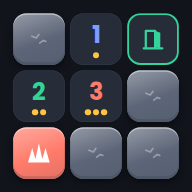
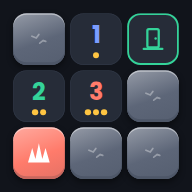
The Dig: разные силуэты входа/выхода, удержание подсвечивает соседей
Вход — кольцо со стрелкой вниз (лаз), выход — прямоугольная дверь на линии
пола с ручкой: раньше оба читались как один и тот же дверной силуэт.

Долгое нажатие (350 мс) на открытую плиту с числом подсвечивает её закрытых
соседей и показывает «N ловушек среди этих плит» — тот же круг подозреваемых,
что называет число, просто не нужно считать в уме. Не вероятность и не
солвер: подсвечивается весь круг соседей, а не то, какие из них ловушки —
'Ограничение игры' из §4 не нарушено. Записано в спеку как решение автора,
с новой строкой действия в §4 и веткой в §7.

npm run check зелёный: 30 юнит-тестов, 8 e2e (два новых — на удержание и на
то, что короткий тап ничего не подсвечивает).

Claude-Session: https://claude.ai/code/session_01KWr27tZBqT1rqwvqWW7Bph

Changed region(s): [[0.75, 0.125, 0.8438, 0.2812]]

diff --git a/apps/excavation/src/ui/game.ts b/apps/excavation/src/ui/game.ts
@@ -25,6 +25,7 @@ const T = {
   reveal: 300, // волна раскрытия комнаты
   popup: 900, // от «Забрать» или ловушки до попапа
   clueTip: 1500, // обучающая подсветка соседей
+  hold: 350, // удержание открытой плиты с числом до подсветки соседей
 } as const;
 
 // Геометрия поля (§7.1): плита 36–60 px, зазор 5 px.
@@ -303,6 +304,44 @@ export function gameScreen(levelNumber: number, go: Go): Screen {
     return out;
   }
 
+  // ---------- удержание открытой плиты: подсветка соседей (§4, §7, решение автора 2026-09-27) ----------
+  // Подсвечивает только закрытые соседние плиты — тот же круг, что число уже
+  // называет («N ловушек среди этих плит»). Не то, где ловушка точно, и не
+  // вероятность: геометрия, которую игрок и так видит по клетке рядом.
+  let holdTimer: ReturnType<typeof setTimeout> | null = null;
+  let holdIndex = -1;
+
+  function clearHold(): void {
+    if (holdTimer !== null) {
+      clearTimeout(holdTimer);
+      holdTimer = null;
+    }
+    if (holdIndex >= 0) {
+      neighboursOf(holdIndex)
+        .filter((j) => !state.open[j])
+        .forEach((j) => cellEl(j).classList.remove('tip-ring'));
+      cellEl(holdIndex).classList.remove('peek-source');
+      tipEl.hidden = true;
+      holdIndex = -1;
+    }
+  }
+
+  function startHold(i: number): void {
+    clearHold();
+    holdTimer = setTimeout(() => {
+      holdTimer = null;
+      holdIndex = i;
+      const n = state.clue[i] ?? 0;
+      const closed = neighboursOf(i).filter((j) => !state.open[j]);
+      closed.forEach((j) => cellEl(j).classList.add('tip-ring'));
+      cellEl(i).classList.add('peek-source');
+      tipEl.innerHTML = `<b>${String(n)} ${plural(n, 'ловушка', 'ловушки', 'ловушек')}</b> среди этих плит`;
+      tipEl.hidden = false;
+      vibrate(10);
+      log({ type: 'peek', level: levelNumber, row: Math.floor(i / level.cols), col: i % level.cols });
+    }, T.hold);
+  }
+
   // ---------- тап по плите (§4) ----------
   function tapCell(row: number, col: number): void {
     if (locked()) return;
@@ -466,9 +505,21 @@ export function gameScreen(levelNumber: number, go: Go): Screen {
 
   boardEl.addEventListener('pointerdown', (event) => {
     const box = (event.target as HTMLElement).closest<HTMLElement>('.cell');
+    clearHold();
     if (box === null) return;
-    tapCell(Number(box.dataset['row']), Number(box.dataset['col']));
+    const row = Number(box.dataset['row']);
+    const col = Number(box.dataset['col']);
+    const i = row * level.cols + col;
+    // Держат открытую плиту с числом — подсвечиваем соседей вместо тапа (тап по
+    // открытой плите и так ничего не делает, §4).
+    if (!locked() && state.open[i] === true && (state.clue[i] ?? 0) > 0) {
+      startHold(i);
+      return;
+    }
+    tapCell(row, col);
   });
+  document.addEventListener('pointerup', clearHold);
+  document.addEventListener('pointercancel', clearHold);
   takeBtn.addEventListener('click', onTake);
   q('[data-testid="to-levels"]').addEventListener('click', toLevels);
   q('[data-testid="restart"]').addEventListener('click', () => {
@@ -492,6 +543,8 @@ export function gameScreen(levelNumber: number, go: Go): Screen {
     el,
     destroy: () => {
       observer.disconnect();
+      document.removeEventListener('pointerup', clearHold);
+      document.removeEventListener('pointercancel', clearHold);
       if (state.status === 'playing' && taps > 0) log({ type: 'abandon', level: levelNumber, attempt, gold: state.gold });
     },
   };

diff --git a/apps/excavation/src/styles.css b/apps/excavation/src/styles.css
@@ -109,7 +109,7 @@ svg { display: block; }
 .h-cell b { font-size: calc(var(--cell) * .42); font-weight: 700; margin-top: -18%; }
 .h-cell > svg { width: 50%; height: 50%; color: var(--ui-green); }
 .h-cell.exit { box-shadow: inset 0 0 0 2px var(--ui-green); }
-.h-cell.exit > svg { width: 46%; height: 46%; margin-top: -12%; }
+.h-cell.exit > svg { width: 42%; height: 42%; }
 .h-cell .corner { position: absolute; top: 3px; left: 7px; font-size: calc(var(--cell) * .25); margin: 0; }
 .h-cell .pips { bottom: calc(var(--cell) * .13); }
 
@@ -225,15 +225,17 @@ svg { display: block; }
 .cell { position: relative; width: var(--cell); height: var(--cell); border-radius: 26%; background: var(--ui-surface-muted); box-shadow: inset 0 0 0 1px var(--ui-border); display: grid; place-items: center; }
 .cell.closed { background: none; box-shadow: none; cursor: pointer; }
 .cell .num { font-size: calc(var(--cell) * .44); font-weight: 700; line-height: 1; margin-top: -16%; }
-.cell.entrance svg, .cell.exit > svg, .cell.ghost-exit > svg { width: 48%; height: 48%; color: var(--ui-green); }
+.cell.entrance svg { width: 50%; height: 50%; color: var(--ui-green); }
+.cell.exit > svg, .cell.ghost-exit > svg { width: 40%; height: 40%; color: var(--ui-green); }
 .cell.exit { box-shadow: inset 0 0 0 2px var(--ui-green); }
-.cell.exit > svg, .cell.ghost-exit > svg { margin-top: -12%; }
 .cell.exit .corner { position: absolute; top: 3px; left: 6px; font-size: calc(var(--cell) * .25); font-weight: 700; line-height: 1.1; }
 .cell.ghost .num, .cell.ghost .pips, .cell.ghost-exit > svg { opacity: .38; }
 .cell.ghost-trap svg { width: 50%; height: 50%; color: var(--ui-coral); opacity: .8; }
 .cell.trap-hit { background: none; box-shadow: none; }
 /* Обучающая подсветка соседей (§7). */
 .cell.tip-ring .stone { outline: 2.5px solid var(--ui-coral); outline-offset: 1px; }
+/* Плита, которую держат (§4, §7): лёгкое кольцо вокруг числа, пока идёт подсветка. */
+.cell.peek-source { box-shadow: inset 0 0 0 2px var(--ui-coral); }
 .clue-tip { position: absolute; top: 4px; left: 50%; transform: translateX(-50%); z-index: 5; max-width: calc(100% - 16px); padding: 8px 14px; border-radius: var(--ui-radius-medium); background: var(--ui-surface); box-shadow: var(--ui-shadow-card), 0 0 0 1px var(--ui-border); font-size: 13px; line-height: 1.3; text-align: center; pointer-events: none; animation: fade-in 200ms ease both; }
 .clue-tip b { color: var(--ui-coral); }
 .clue-tip span { color: var(--ui-yellow); font-weight: 600; }

diff --git a/UI Design/prototypes/excavation/mockup.html b/UI Design/prototypes/excavation/mockup.html
@@ -71,7 +71,7 @@
   .pips i { width: 7px; height: 7px; border-radius: 50%; background: var(--ui-yellow); box-shadow: inset 0 -1px 0 rgba(0,0,0,.25); }
   /* Найденный выход: зелёная рамка, дверь, число в углу. */
   .exit { box-shadow: inset 0 0 0 2px var(--ui-green); }
-  .exit svg.door { width: 46%; height: 46%; color: var(--ui-green); margin-top: -6px; }
+  .exit svg.door { width: 40%; height: 40%; color: var(--ui-green); }
   .exit b.corner { position: absolute; top: 4px; left: 7px; font-size: 14px; margin: 0; }
   .entrance svg { width: 52%; height: 52%; color: var(--ui-green); }
 
@@ -88,8 +88,8 @@
     <symbol id="star" viewBox="0 0 24 24"><path d="M12 2.8l2.8 5.9 6.4.8-4.7 4.4 1.2 6.4L12 17.2l-5.7 3.1 1.2-6.4L2.8 9.5l6.4-.8z" fill="currentColor"/></symbol>
     <symbol id="spikes" viewBox="0 0 24 24"><path d="M3 20 6.5 8 10 20zM8.5 20 12 4l3.5 16zM14 20l3.5-12L21 20z" fill="currentColor"/></symbol>
     <symbol id="cracks" viewBox="0 0 24 24"><path d="M4 9l5 2 3-4M13 17l4-3 3 1" stroke="currentColor" stroke-width="2" fill="none" stroke-linecap="round"/></symbol>
-    <symbol id="exitdoor" viewBox="0 0 24 24"><path d="M5 21V4h9v17" fill="none" stroke="currentColor" stroke-width="2.2" stroke-linejoin="round"/><path d="M14 4l5 2v15l-5-1z" fill="currentColor"/><path d="M3 21h18" stroke="currentColor" stroke-width="2.2" stroke-linecap="round"/></symbol>
-    <symbol id="door" viewBox="0 0 24 24"><path d="M6 21V9a6 6 0 0 1 12 0v12z" fill="none" stroke="currentColor" stroke-width="2.4" stroke-linejoin="round"/><path d="M3 21h18" stroke="currentColor" stroke-width="2.4" stroke-linecap="round"/></symbol>
+    <symbol id="exitdoor" viewBox="0 0 24 24"><rect x="6.5" y="2.5" width="11" height="17.5" rx="1.4" fill="none" stroke="currentColor" stroke-width="2.2"/><circle cx="14.5" cy="11.5" r="1.2" fill="currentColor"/><path d="M3 21.5h18" stroke="currentColor" stroke-width="2.2" stroke-linecap="round"/></symbol>
+    <symbol id="door" viewBox="0 0 24 24"><circle cx="12" cy="12" r="9" fill="none" stroke="currentColor" stroke-width="2.3"/><path d="M8 10.5 12 14.5 16 10.5" fill="none" stroke="currentColor" stroke-width="2.4" stroke-linecap="round" stroke-linejoin="round"/></symbol>
   </defs>
 </svg>
 <div class="app">

diff --git a/apps/excavation/src/ui/icons.ts b/apps/excavation/src/ui/icons.ts
@@ -19,8 +19,11 @@ export const glyph = {
   star: '<svg viewBox="0 0 24 24" aria-hidden="true"><path d="M12 2.8l2.8 5.9 6.4.8-4.7 4.4 1.2 6.4L12 17.2l-5.7 3.1 1.2-6.4L2.8 9.5l6.4-.8z" fill="currentColor"/></svg>',
   spikes: '<svg viewBox="0 0 24 24" aria-hidden="true"><path d="M3 20 6.5 8 10 20zM8.5 20 12 4l3.5 16zM14 20l3.5-12L21 20z" fill="currentColor"/></svg>',
   cracks: '<svg viewBox="0 0 24 24" aria-hidden="true"><path d="M4 9l5 2 3-4M13 17l4-3 3 1" stroke="currentColor" stroke-width="2" fill="none" stroke-linecap="round"/></svg>',
-  arch: '<svg viewBox="0 0 24 24" aria-hidden="true"><path d="M6 21V9a6 6 0 0 1 12 0v12z" fill="none" stroke="currentColor" stroke-width="2.4" stroke-linejoin="round"/><path d="M3 21h18" stroke="currentColor" stroke-width="2.4" stroke-linecap="round"/></svg>',
-  exit: '<svg viewBox="0 0 24 24" aria-hidden="true"><path d="M5 21V4h9v17" fill="none" stroke="currentColor" stroke-width="2.2" stroke-linejoin="round"/><path d="M14 4l5 2v15l-5-1z" fill="currentColor"/><path d="M3 21h18" stroke="currentColor" stroke-width="2.2" stroke-linecap="round"/></svg>',
+  // Вход — круглый лаз, которым спустились в гробницу: кольцо и стрелка вниз.
+  arch: '<svg viewBox="0 0 24 24" aria-hidden="true"><circle cx="12" cy="12" r="9" fill="none" stroke="currentColor" stroke-width="2.3"/><path d="M8 10.5 12 14.5 16 10.5" fill="none" stroke="currentColor" stroke-width="2.4" stroke-linecap="round" stroke-linejoin="round"/></svg>',
+  // Выход — прямоугольная дверь на полу: рамка, ручка и линия пола под ней —
+  // силуэт нарочно не похож на круглый лаз входа.
+  exit: '<svg viewBox="0 0 24 24" aria-hidden="true"><rect x="6.5" y="2.5" width="11" height="17.5" rx="1.4" fill="none" stroke="currentColor" stroke-width="2.2"/><circle cx="14.5" cy="11.5" r="1.2" fill="currentColor"/><path d="M3 21.5h18" stroke="currentColor" stroke-width="2.2" stroke-linecap="round"/></svg>',
 };
 
 /** Ряд монеток под цифрой: столько же штук, сколько число (§7). */

diff --git a/UI Design/prototypes/excavation/tiles.html b/UI Design/prototypes/excavation/tiles.html
@@ -30,7 +30,7 @@
   .pips i { width: 7px; height: 7px; border-radius: 50%; background: var(--ui-yellow); box-shadow: inset 0 -1px 0 rgba(0,0,0,.25); }
   .ghost .pips { opacity: .38; }
   .exit { box-shadow: inset 0 0 0 2px var(--ui-green); }
-  .exit svg { width: 46%; height: 46%; color: var(--ui-green); margin-top: -6px; }
+  .exit svg { width: 40%; height: 40%; color: var(--ui-green); }
   .exit b.corner { position: absolute; top: 4px; left: 7px; font-size: 14px; margin: 0; }
 </style>
 </head>
@@ -38,8 +38,8 @@
 <svg width="0" height="0" style="position:absolute"><defs>
   <symbol id="spikes" viewBox="0 0 24 24"><path d="M3 20 6.5 8 10 20zM8.5 20 12 4l3.5 16zM14 20l3.5-12L21 20z" fill="currentColor"/></symbol>
   <symbol id="cracks" viewBox="0 0 24 24"><path d="M4 9l5 2 3-4M13 17l4-3 3 1" stroke="currentColor" stroke-width="2" fill="none" stroke-linecap="round"/></symbol>
-  <symbol id="exitdoor" viewBox="0 0 24 24"><path d="M5 21V4h9v17" fill="none" stroke="currentColor" stroke-width="2.2" stroke-linejoin="round"/><path d="M14 4l5 2v15l-5-1z" fill="currentColor"/><path d="M3 21h18" stroke="currentColor" stroke-width="2.2" stroke-linecap="round"/></symbol>
-  <symbol id="door" viewBox="0 0 24 24"><path d="M6 21V9a6 6 0 0 1 12 0v12z" fill="none" stroke="currentColor" stroke-width="2.4" stroke-linejoin="round"/><path d="M3 21h18" stroke="currentColor" stroke-width="2.4" stroke-linecap="round"/></symbol>
+  <symbol id="exitdoor" viewBox="0 0 24 24"><rect x="6.5" y="2.5" width="11" height="17.5" rx="1.4" fill="none" stroke="currentColor" stroke-width="2.2"/><circle cx="14.5" cy="11.5" r="1.2" fill="currentColor"/><path d="M3 21.5h18" stroke="currentColor" stroke-width="2.2" stroke-linecap="round"/></symbol>
+  <symbol id="door" viewBox="0 0 24 24"><circle cx="12" cy="12" r="9" fill="none" stroke="currentColor" stroke-width="2.3"/><path d="M8 10.5 12 14.5 16 10.5" fill="none" stroke="currentColor" stroke-width="2.4" stroke-linecap="round" stroke-linejoin="round"/></symbol>
 </defs></svg>
 <h2>Во время попытки</h2>
 <div class="row">

diff --git a/apps/excavation/tools/brand.html b/apps/excavation/tools/brand.html
@@ -31,7 +31,7 @@
 <svg width="0" height="0" style="position:absolute"><defs>
   <symbol id="cr" viewBox="0 0 24 24"><path d="M4 9l5 2 3-4M13 17l4-3 3 1" stroke="currentColor" stroke-width="2" fill="none" stroke-linecap="round"/></symbol>
   <symbol id="sp" viewBox="0 0 24 24"><path d="M3 20 6.5 8 10 20zM8.5 20 12 4l3.5 16zM14 20l3.5-12L21 20z" fill="currentColor"/></symbol>
-  <symbol id="ex" viewBox="0 0 24 24"><path d="M5 21V4h9v17" fill="none" stroke="currentColor" stroke-width="2.2" stroke-linejoin="round"/><path d="M14 4l5 2v15l-5-1z" fill="currentColor"/><path d="M3 21h18" stroke="currentColor" stroke-width="2.2" stroke-linecap="round"/></symbol>
+  <symbol id="ex" viewBox="0 0 24 24"><rect x="6.5" y="2.5" width="11" height="17.5" rx="1.4" fill="none" stroke="currentColor" stroke-width="2.2"/><circle cx="14.5" cy="11.5" r="1.2" fill="currentColor"/><path d="M3 21.5h18" stroke="currentColor" stroke-width="2.2" stroke-linecap="round"/></symbol>
 </defs></svg>
 <div id="icon"><div class="grid">
   <div class="c"><div class="s"><svg><use href="#cr"/></svg></div></div>

diff --git a/apps/excavation/src/ui/log.ts b/apps/excavation/src/ui/log.ts
@@ -25,7 +25,9 @@ export type LogEvent =
   | { type: 'abandon'; level: number; attempt: number; gold: number }
   | { type: 'take_blocked'; level: number; attempt: number; why: 'no_exit' | 'no_gold' }
   | { type: 'clue_tip'; level: number }
-  | { type: 'help_open'; level: number };
+  | { type: 'help_open'; level: number }
+  /** Игрок держал открытую плиту с числом, чтобы подсветить закрытых соседей (§4, §7). */
+  | { type: 'peek'; level: number; row: number; col: number };
 
 export function log(event: LogEvent): void {
   try {

diff --git a/specs/24-excavation.md b/specs/24-excavation.md
@@ -130,6 +130,7 @@ type Progress = {
 ```ts
 type Action =
   | { type: 'tap-tile'; row: number; col: number }
+  | { type: 'hold-tile'; row: number; col: number }     // удержание открытой плиты с числом
   | { type: 'take' }                    // кнопка «Забрать»
   | { type: 'restart' }
   | { type: 'open-help' }
@@ -137,8 +138,16 @@ type Action =
   | { type: 'exit-to-levels' };
 ```
 
-Только тап. Долгого нажатия, флажков и меток, перетаскивания, свайпа и
-отмены хода нет.
+Тап и удержание. Флажков и меток, перетаскивания, свайпа и отмены хода нет.
+
+**Удержание открытой плиты с числом** (решение автора, добавлено после
+показа): держишь палец 350 мс — подсвечиваются закрытые соседи этой плиты.
+Это не подсказка «здесь ловушка» и не солвер: подсвечивается весь круг
+закрытых соседей, а не те из них, что окажутся ловушкой, — та же информация,
+что число уже называет («N ловушек среди этих плит»), просто её неудобно
+считать в уме на большом поле. Вероятность по отдельной плите игра
+по-прежнему не считает и не показывает (см. «Ограничение игры» ниже) —
+удержание сужает круг подозреваемых, а не называет виновного.
 
 **Число — одно на плите.** Под плитой бывает только три вещи: ловушка,
 пусто (0) или число `N` от 1 до 5. Открытая плита с числом `N` показывает
@@ -154,6 +163,8 @@ type Action =
 | Тап по плите | закрыта, безопасна, число 0 | `open = true`, золото не меняется, дальше по §5 | плита переворачивается пустой | да |
 | Тап по плите | закрыта, ловушка | `status = 'failed'`, `failReason = 'trap'`, `lostGold = gold`, `gold = 0` | ловушка срабатывает, золото сгорает до нуля, комната раскрывается, попап поражения (§5) | да |
 | Тап по плите | открыта, вход или найденный выход | ничего | ничего | нет |
+| Удержание 350 мс | плита открыта, число `N ≥ 1` (в т. ч. найденный выход; у входа число всегда 0) | ничего | закрытые соседи этой плиты обводятся, плашка «N ловушек среди этих плит» | нет |
+| Отпустить после удержания | было удержание | ничего | подсветка и плашка гаснут | нет |
 | «Забрать» | `exitFound` и `gold ≥` порога 1★ | `status = 'won'`, дальше по §5 | счётчик золота уходит в звёзды, комната раскрывается, попап победы | — |
 | «Забрать» | выход не найден | ничего | кнопка неактивна: серая, подпись «Найди выход», при тапе коротко покачивается | нет |
 | «Забрать» | выход найден, `gold <` порога 1★ | ничего | кнопка неактивна: серая, подпись «Выход с 18», при тапе коротко покачивается | нет |
@@ -164,9 +175,11 @@ type Action =
 | Любое действие с полем или «Забрать» | `status !== 'playing'` или открыт попап | ничего | ничего | нет |
 
 **Ограничение игры, а не игрока.** Игра никогда не сообщает, остались ли
-гарантированно безопасные плиты, и не подсвечивает их. Решить, что логика
-кончилась, — работа игрока (решение 2026-09-27: иначе игра сама называет
-момент выбора, и проверять нечего).
+гарантированно безопасные плиты, не вычисляет и не показывает вероятность
+ловушки на отдельной плите, не помечает, какая из подсвеченных соседей — она.
+Решить, что логика кончилась, — работа игрока (решение 2026-09-27: иначе игра
+сама называет момент выбора, и проверять нечего). Удержание (выше) этого не
+меняет: оно обводит круг закрытых соседей числа целиком, без ранжирования.
 
 # 5. Победа, поражение и переходы
 
@@ -328,10 +341,18 @@ type Action =
   `--ui-yellow` (7 px, зазор 2 px; при плите меньше 44 px — 5 px): «2» и две
   монетки, «5» и пять. Одинаковое количество говорит «это одно и то же
   число». Пустая плита (0) — без цифры и монеток.
-- **Вход** — плоская ячейка со значком арки `--ui-green`. **Выход** до
-  находки неотличим от закрытой плиты. Найденный выход — плоская ячейка с
-  зелёной рамкой и значком открытой двери `--ui-green`; его цифра — в левом
-  верхнем углу (14 px) своего цвета, монетки — внизу, как у обычной плиты.
+- **Вход и выход — разные силуэты, не только цвет** (решение автора,
+  добавлено после показа): вход — кольцо со стрелкой вниз («лаз, которым
+  спустились»), выход — прямоугольная дверь на линии пола, с ручкой
+  («выход наружу»); оба `--ui-green`. Вход виден с начала на плоской ячейке.
+  Выход до находки неотличим от закрытой плиты. Найденный выход — плоская
+  ячейка с зелёной рамкой и значком двери; его цифра — в левом верхнем углу
+  (14 px) своего цвета, монетки — внизу, как у обычной плиты.
+- **Удержание** (решение автора, добавлено после показа): держишь открытую
+  плиту с числом 350 мс — её закрытые соседи обводятся коралловым (та же
+  обводка, что у обучающей подсветки ниже), сама плита получает лёгкое
+  внутреннее кольцо, и над полем всплывает плашка «N ловушек среди этих
+  плит». Отпустил — подсветка гаснет сразу, ход не тратится.
 - **Обучающая подсветка соседей** (решение автора 2026-09-27). На уровне 1,
   пока `clueTipSeen = false`: когда открывается первая плита с числом `N ≥ 1`,
   её закрытые соседи на `1500 мс` обводятся рамкой `--ui-coral`, а над полем —
@@ -417,9 +438,11 @@ type Action =
 
 **Второй канал к цвету.** Закрытая и открытая плита различаются объёмом;
 ловушка — значком шипов; число читается как цифра и как число монеток, цвет
-лишь добавляет «температуру»; выход — значком двери; звёзды — формой значка
-(заливка или рамка) и подписью порога; активность «Забрать» — подписью
-(«Забрать 23», «Найди выход», «Выход с 18»), не только цветом.
+лишь добавляет «температуру»; вход и выход — разными силуэтами (кольцо со
+стрелкой вниз против прямоугольной двери на линии пола), не только одним
+зелёным; звёзды — формой значка (заливка или рамка) и подписью порога;
+активность «Забрать» — подписью («Забрать 23», «Найди выход», «Выход с 18»),
+не только цветом.
 
 **Главный экран без арта автора** (сборка 2026-09-27): арта для «Раскопа»
 пока нет, поэтому вместо него название, честная мини-комната 4×4 из плит игры
@@ -473,6 +496,9 @@ playtest:
   против лучшей доступной: читает ли игрок числа, когда рискует.
 - `careless_taps` — тапы по плите с риском > 0, когда была плита с риском 0:
   логика не понята, а не жадность.
+- `peek_rate` — доля стопов, перед которыми было хотя бы одно удержание
+  (§4, §7): пользуются ли игроки подсветкой соседей, когда наступает момент
+  решения, или дедукцию и так делают в уме.
 
 Метрики диагностические. Решение Gate 2 — по наблюдаемому поведению и
 kill-критерию. Много `careless_taps` при срабатывании kill-критерия — сначала

diff --git a/UI Design/prototypes/excavation/README.md b/UI Design/prototypes/excavation/README.md
@@ -16,6 +16,9 @@
 - `mockup.html`, `tiles.html` — исходники. Пересобрать PNG:
   `headless_shell --window-size=390,664 --force-device-scale-factor=2 --screenshot=game-screen.png mockup.html`,
   `headless_shell --window-size=390,430 --force-device-scale-factor=2 --screenshot=tiles.png tiles.html`.
+- `hold-peek.png` — скриншот из собранного `apps/excavation` (не пересобирается
+  headless_shell'ом из статического мокапа): удержание открытой плиты «2»
+  подсвечивает трёх закрытых соседей и плашку «2 ловушки среди этих плит».
 
 | Объект | Цвет | Второй канал |
 |---|---|---|
@@ -23,10 +26,17 @@
 | Открытая плита | `--ui-surface-muted` | плоская |
 | Число 1–5 | `--ui-clue-1..5`: синий, зелёный, коралловый, фиолетовый, розовый | сама цифра |
 | Золото плиты | монетки `--ui-yellow` под цифрой, столько же штук | количество |
-| Найденный выход | рамка и дверь `--ui-green`, цифра в углу | значок двери |
-| Вход | `--ui-green` | значок арки |
+| Вход | `--ui-green` | круг со стрелкой вниз — «лаз, которым спустились» |
+| Найденный выход | рамка и дверь `--ui-green`, цифра в углу | прямоугольная дверь на линии пола с ручкой — силуэт нарочно не похож на вход |
+| Удержание плиты с числом | обводка `--ui-coral` на закрытых соседях | плашка «N ловушек среди этих плит» |
 | Ловушка | тайл `--ui-coral` (сработала) или значок на плоской (раскрыта) | значок шипов |
 | Звезда на шкале | `--ui-yellow` / `--ui-disabled` | заливка или рамка, число порога |
+
+**Вход и выход переделаны 2026-09-27** (по просьбе автора «чтобы больше
+отличались»): раньше оба были формой арки/двери с общим силуэтом, теперь вход
+— окружность со стрелкой вниз, выход — прямоугольник с ручкой и линией пола.
+Тот же файл `tools/brand.html` в `apps/excavation` использует те же два
+символа — синхронизировано.
 
 Черновик тёмного варианта (`mockup-dark.html`) после одобрения стал основным
 `mockup.html`; светлого варианта больше нет.
